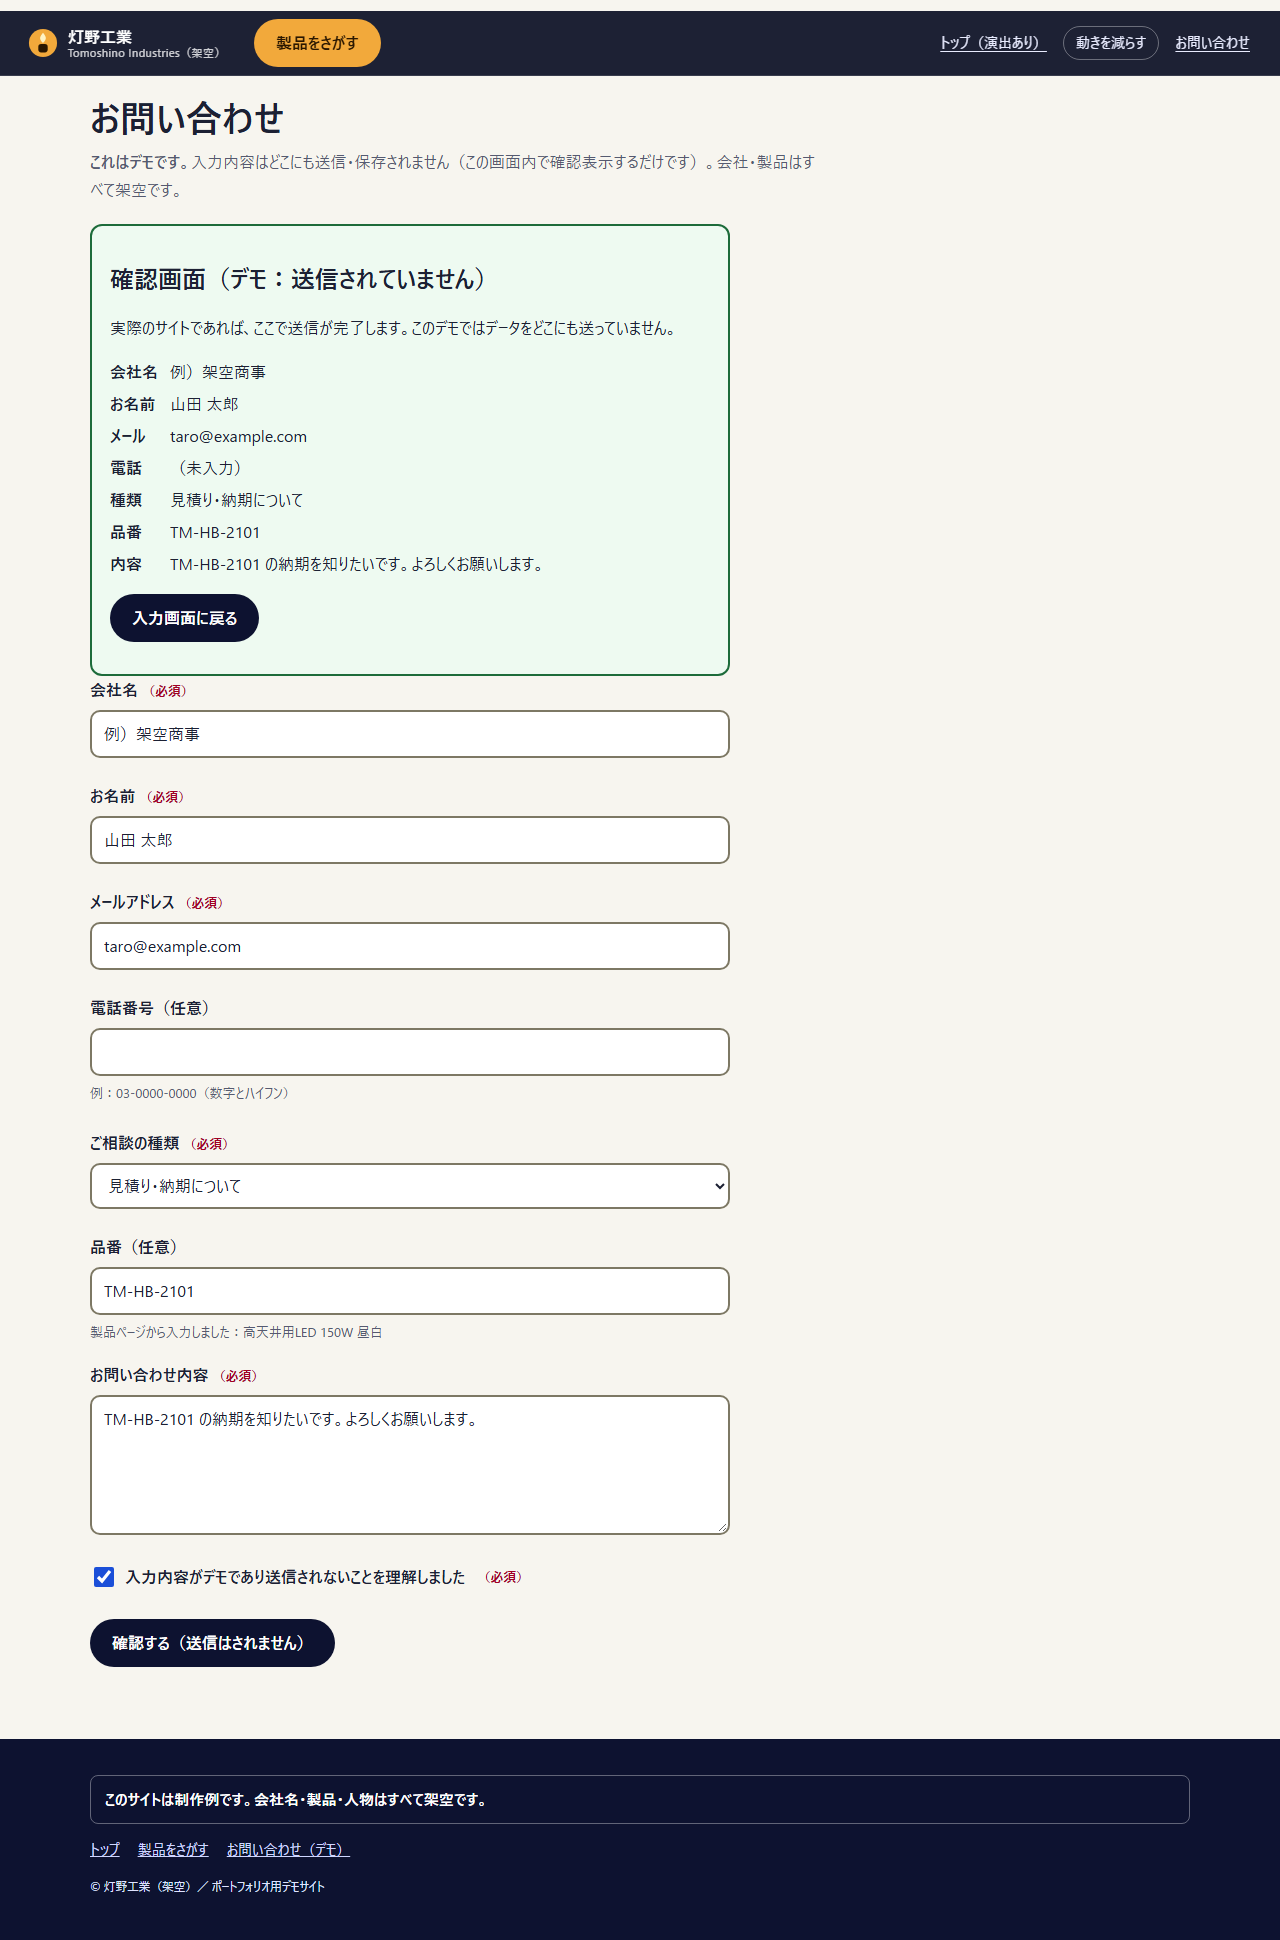
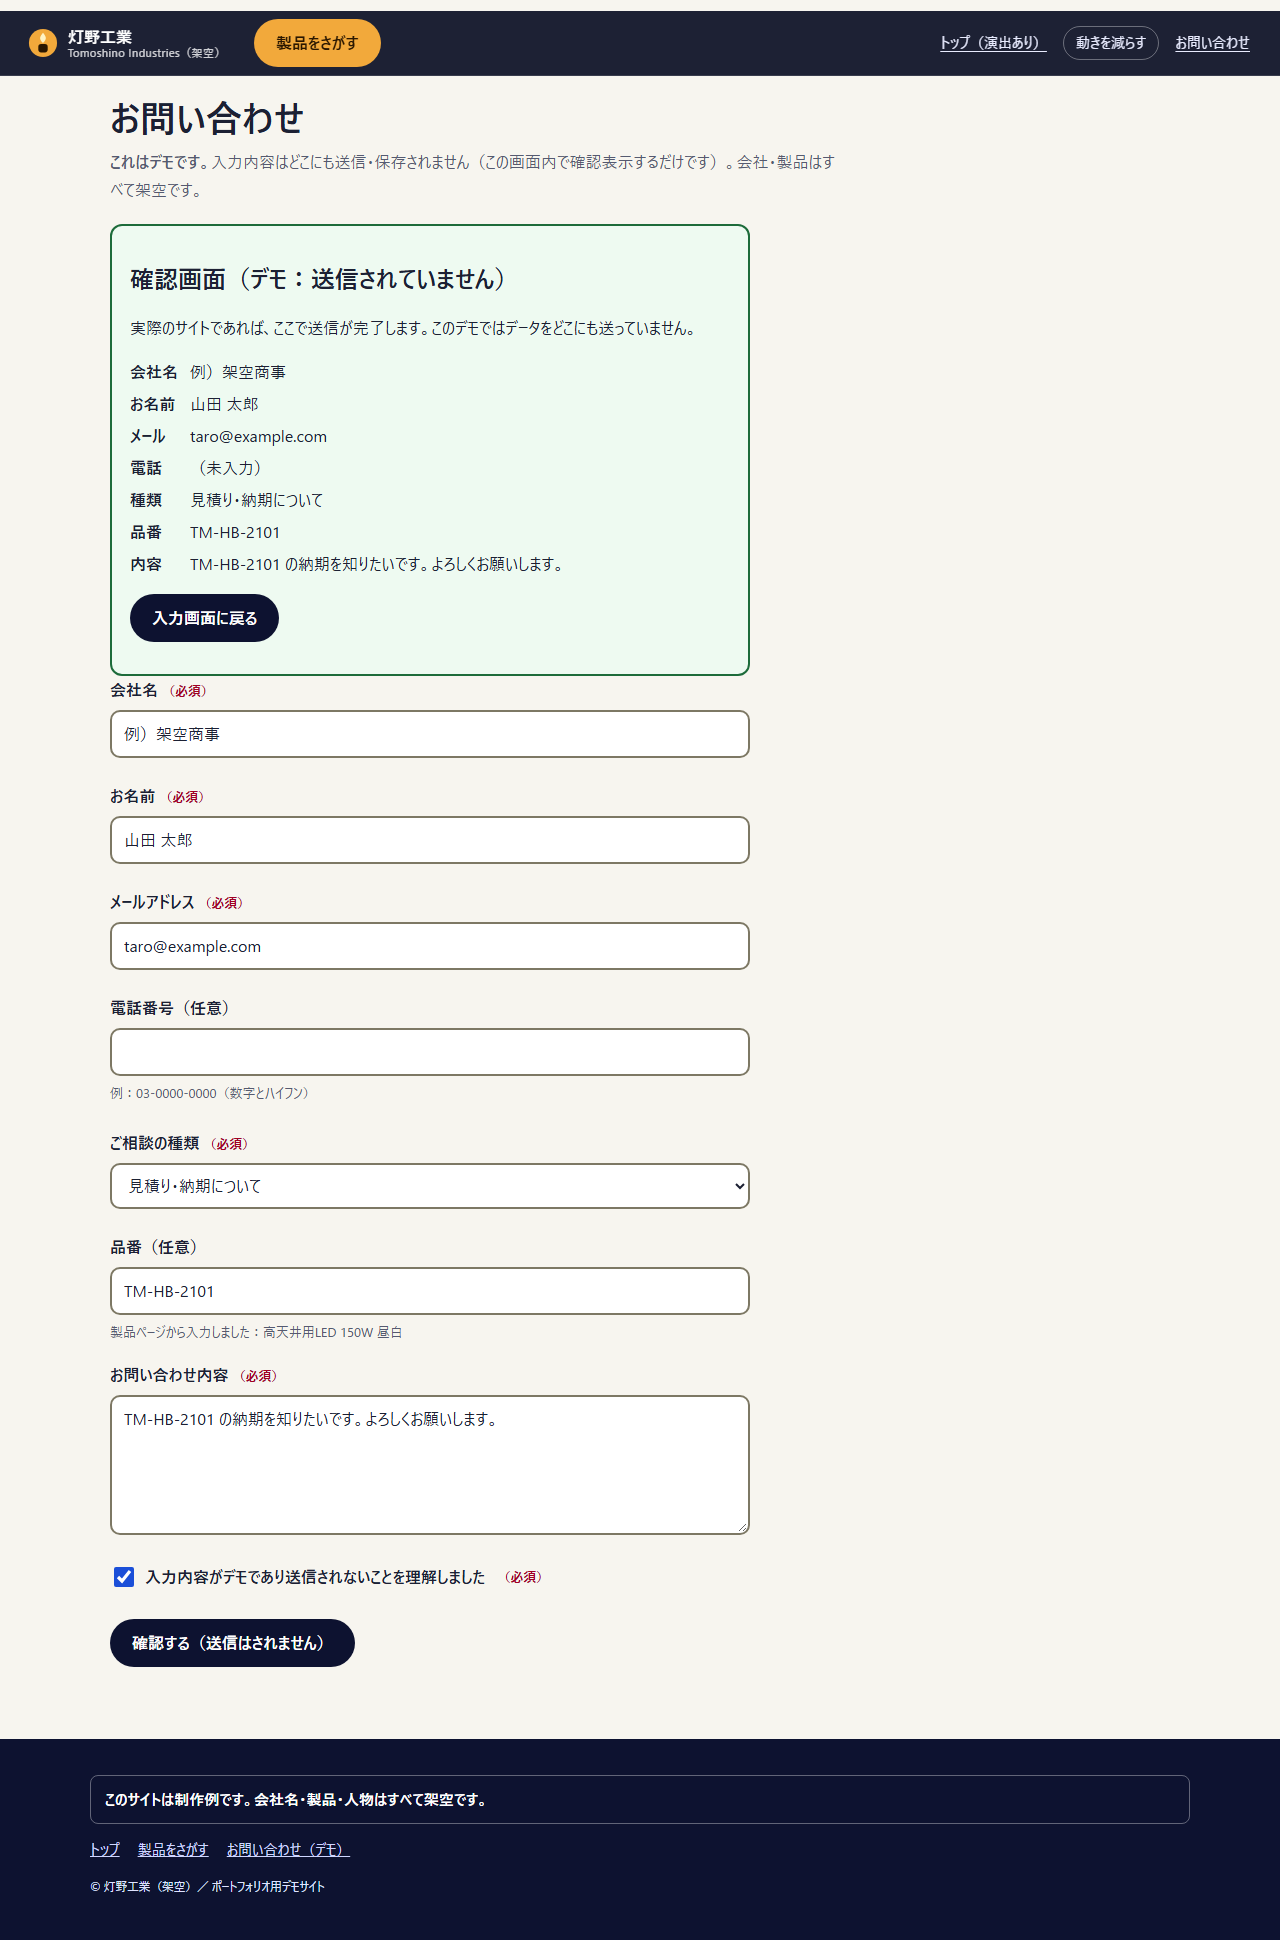
Fix horizontal padding on product/contact pages at narrow widths

diff --git a/css/products.css b/css/products.css
@@ -1,5 +1,5 @@
 /* products / product / contact / spec：演出なしの実用ページ */
-.page-main{padding:28px 0 72px}
+.page-main{padding-top:28px;padding-bottom:72px}
 .page-main h1{font-size:clamp(26px,5vw,36px);margin:0 0 6px}
 .note{color:var(--muted);margin:0 0 20px;max-width:46em}
 .crumbs{font-size:14px;margin:0 0 12px}
